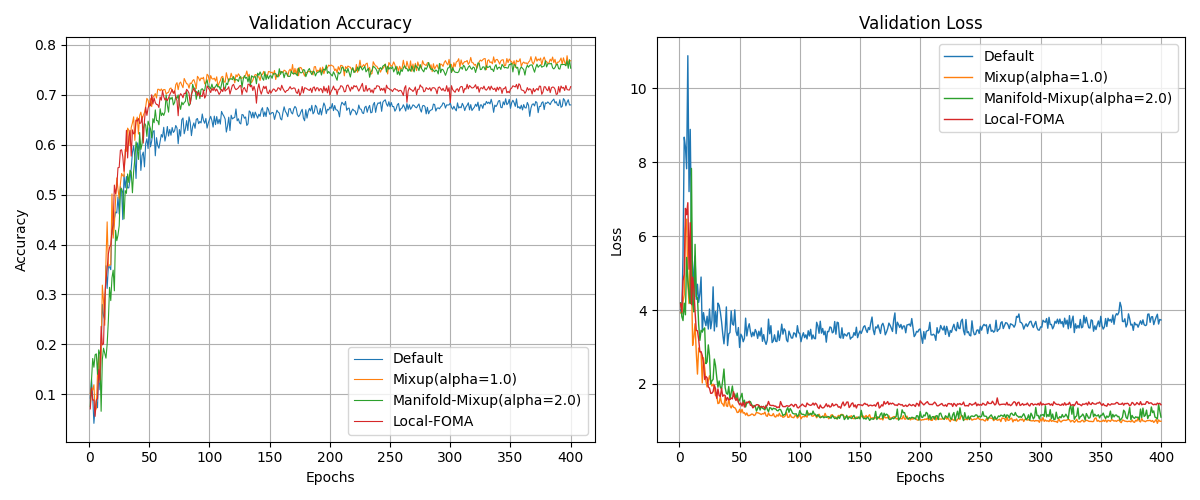
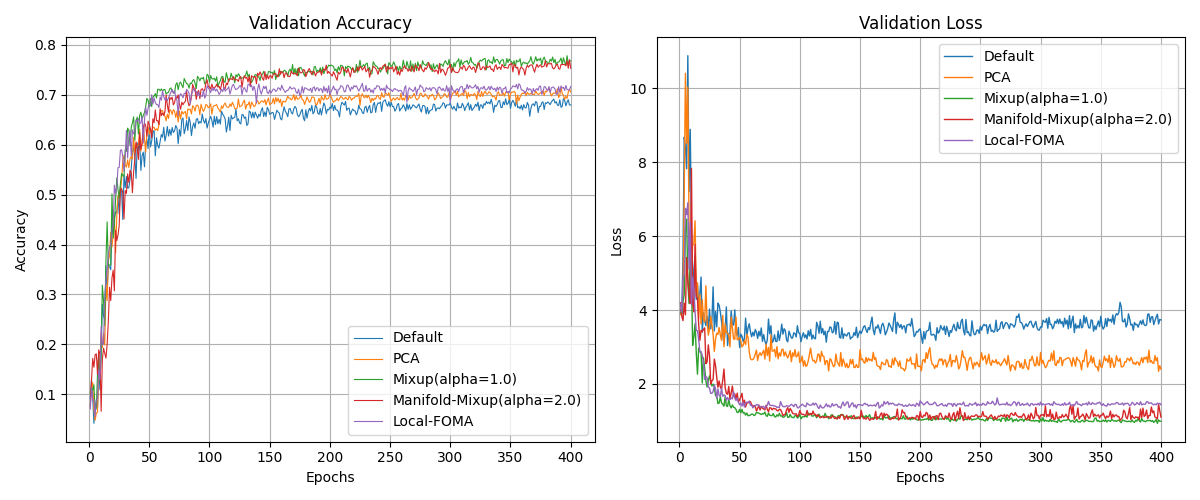
foma small singular up

diff --git a/src/methods/foma.py b/src/methods/foma.py
@@ -93,6 +93,7 @@ def local_foma(
         # λ の用意（サンプル共通 or per-sample）
         if lam is None:
             lam_i = torch.distributions.Beta(alpha, alpha).sample().to(device)
+            lam_i += 1
         else:
             lam_i = lam if torch.is_tensor(lam) else torch.tensor(lam, device=device)
 

diff --git a/result.py b/result.py
@@ -20,7 +20,7 @@ def main():
     augmentations = [
         # "Original",
         "Default",
-        # "PCA",
+        "PCA",
         # "SVD",
 
         # "Conf-Mixup",
